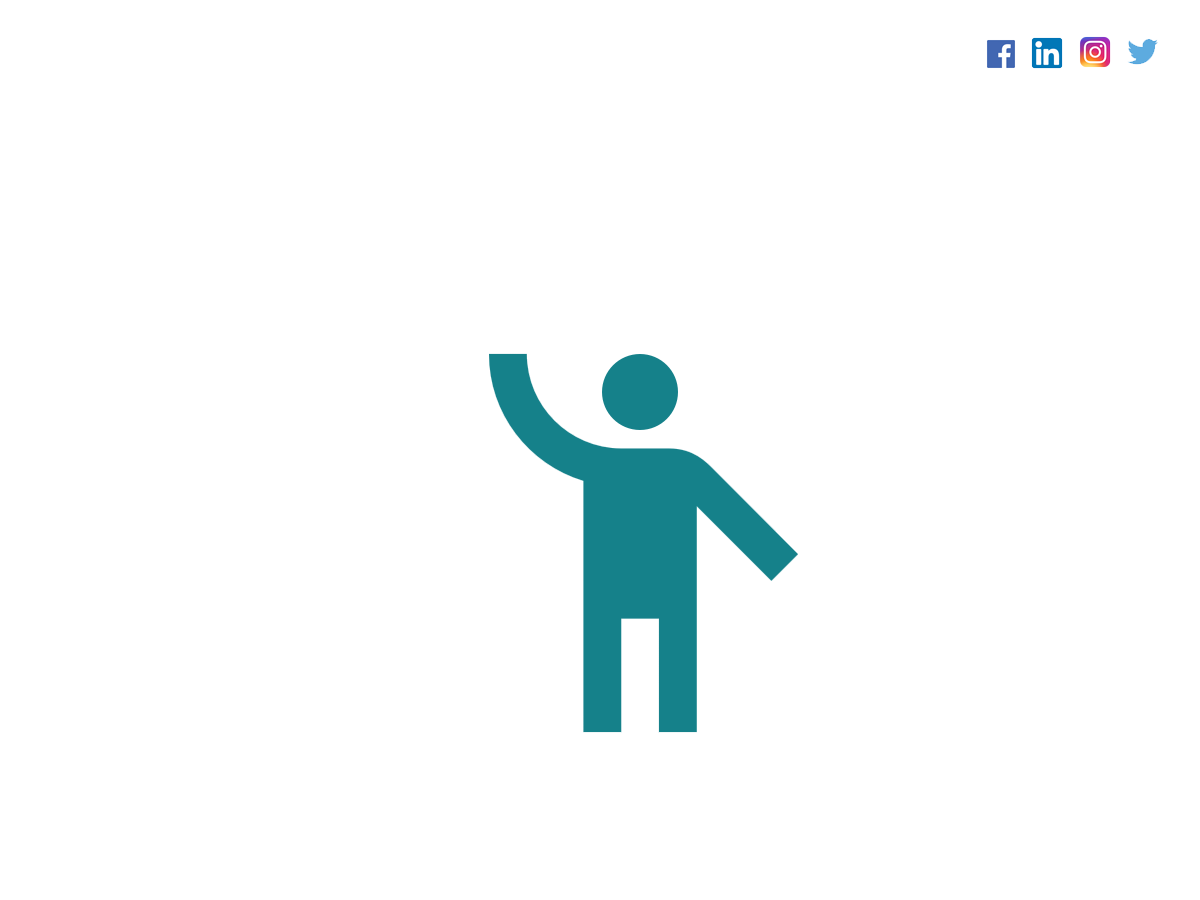
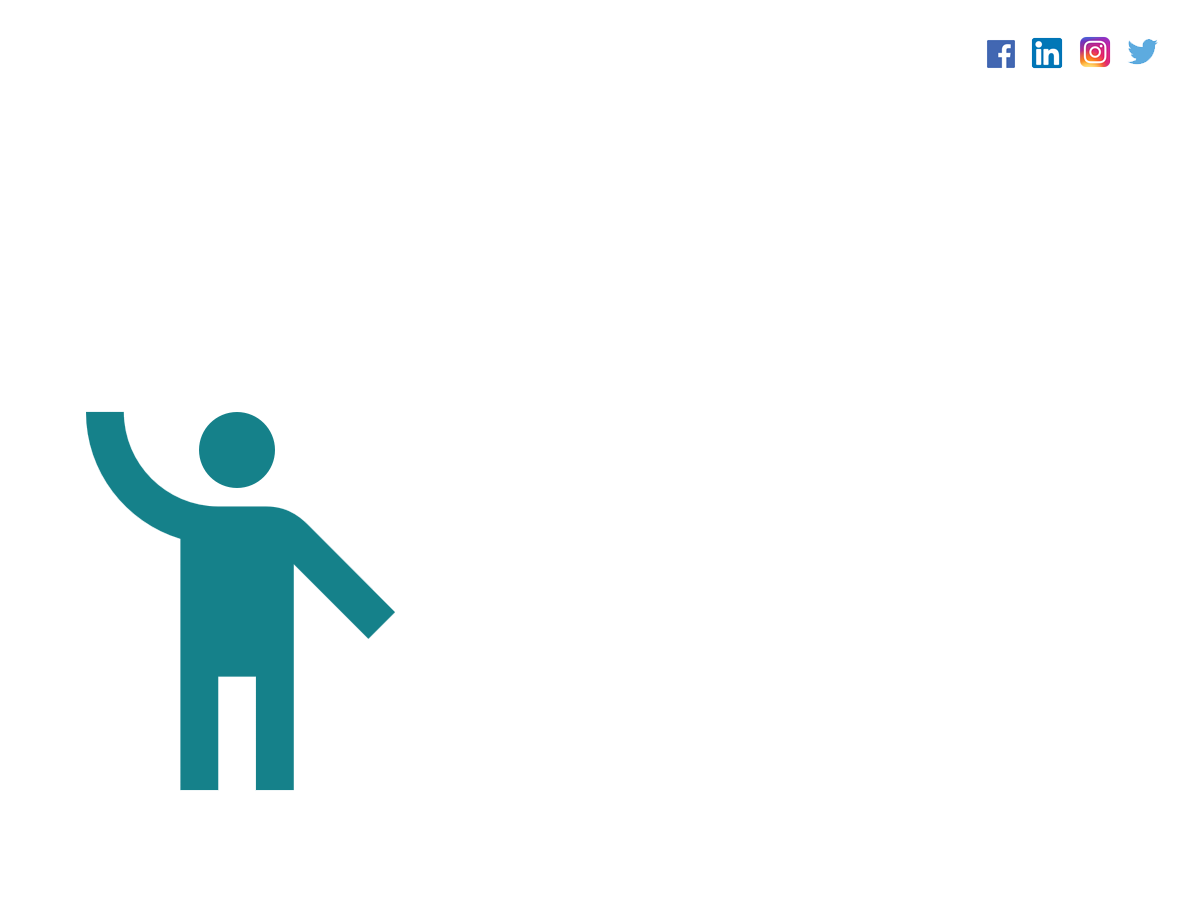
bootstraps manager app

Changed region(s): [[0.4008, 0.3733, 0.6783, 0.84], [0.0617, 0.4356, 0.3392, 0.9022]]

diff --git a/listingslab/functions.php b/listingslab/functions.php
@@ -14,6 +14,15 @@ if ( version_compare( $GLOBALS['wp_version'], '4.7-alpha', '<' ) ) {
 	return;
 }
 
+function listingslab_admin() {
+    $html = file_get_contents(get_template_directory_uri() . '/react/back/build/index.html');
+    $html = str_replace('href="/static', 'href="'. get_template_directory_uri() .
+        '/react/back/build/static', $html);
+    $html = str_replace('src="/static', 'src="'. get_template_directory_uri() .
+        '/react/back/build/static', $html);
+    echo $html;
+}
+
 function listingslab_setup() {
 
 	require get_template_directory() . '/inc/widget.php';
@@ -25,6 +34,19 @@ function listingslab_setup() {
 	add_image_size( 'listingslab-featured-image', 2000, 1200, true );
 	add_image_size( 'listingslab-thumbnail-avatar', 100, 100, true );
 	$GLOBALS['content_width'] = 525;
+
+	add_action('admin_menu', 'listingslab_setup_adminmenu');
+	function listingslab_setup_adminmenu(){
+	    add_menu_page( 
+	    	'listingslab Page', 
+	    	'listingslab', 
+	    	'manage_options', 
+	    	'listingslab', 
+	    	'listingslab_admin',
+	        get_template_directory_uri(__FILE__) . '/assets/svg/listingslab.svg',
+	        4
+	    );
+	}
 
 	register_nav_menus(
 		array(
